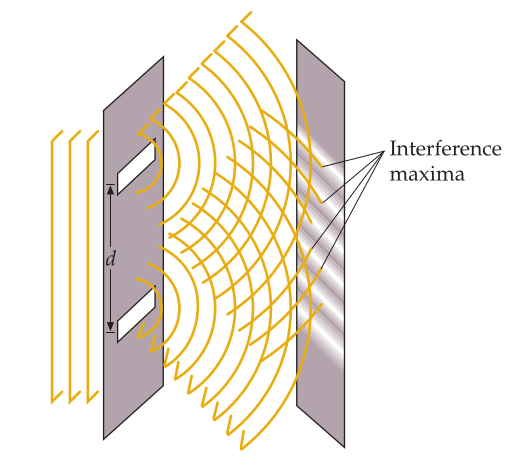
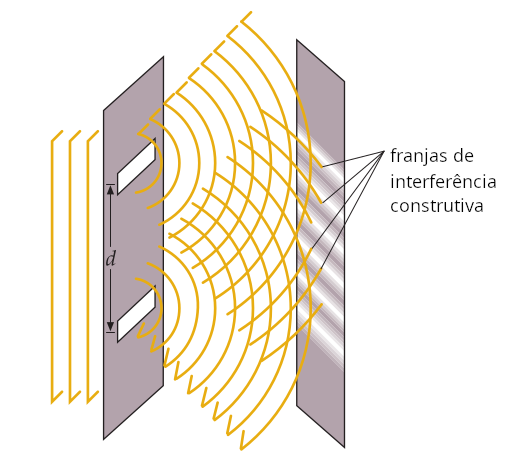
Atualizacao 13/05 00h

Changed region(s): [[0.7218, 0.3037, 0.9624, 0.4555]]

diff --git a/interferenciaedifracao.md b/interferenciaedifracao.md
@@ -127,7 +127,7 @@ y(x,t) = y_1(x,t) + y_2(x,t) \;=\;0\;,\;\;\; \forall x,t.
 \end{equation} 
 Essa é uma característica marcante dos fenômenos ondulatórios: a superposição
 de duas ondas pode resultar na ausência de ondas! Assim, a superposição de dois sons pode resultar em silêncio e a superposição de
-duas luzes pode resultar em escuridão! Esse fenômeno é denominado {\bf interferência destrutiva} e dizemos que as ondas estão em **oposição de fase**.
+duas luzes pode resultar em escuridão! Esse fenômeno é denominado **interferência destrutiva** e dizemos que as ondas estão em **oposição de fase**.
 
 O caso em que $\delta = \pi$ dá origem a uma interferência destrutiva total. O mesmo se dá quando $\delta = -\pi, \pm 3\pi, \pm 5\pi$, etc, pois em todos esses casos $\cos(\delta/2)$ se anula. 
 :::{note}
@@ -161,7 +161,7 @@ Perceba as ondas planas chegando e as ondas esféricas interferindo, gerando um 
 
 Pela distância da fonte, a onda atige o anteparo com frentes de onda praticamente planas. Pelo Princípio de Huygens, cada fenda fará com que o comportamento da onda seja equivalente à sobreposição (interferência) de muitas fontes pontuais diminutas, distribuidas ao longo da fenda. Como a frente de onda que atinge as fendas é tipo onda plana, todas as fontes diminutas nas duas fendas estarão em fase. A diferença de fase que se observará na sequência será devida à diferença de caminho.
 
-Vamos considerar o efeito da interferência de duas fontes diminutas localizadas em um mesmo perpendicular às fendas. Qual será a fase da onda em um ponto de altura $y$ (em relação à altura do ponto médio entre as fendas)? Pela figura, vemos que a diferença de caminho é $d\sin\theta$, com $\tan \theta = y/L$. 
+Vamos considerar o efeito da interferência de duas fontes diminutas localizadas em um mesmo plano perpendicular às fendas. Qual será a fase da onda em um ponto de altura $y$ (em relação à altura do ponto médio entre as fendas)? Pela figura, vemos que a diferença de caminho é $d\sin\theta$, com $\tan \theta = y/L$. 
 :::{figure} ./figures/interferenciaduplafendayoung2.png
 ---
 width: 600px
@@ -228,13 +228,15 @@ Agora, observe que $n_0\overline{AC'} = n_0\,L\sin \theta_1$ e $n\overline{A'C} 
 ([2]-[1])_{reflexão}\;=\;2 n d \cos\theta_2 \;-\;\frac{\lambda_0}{2}. 
 \end{equation}
 
-Por simetria, podemos escrever diretamente a diferença de caminho para dois raios transmitidos consecutivos:
+Por simetria, podemos escrever diretamente a diferença de caminho entre os raios transmitidos $2'$ e $1'$:
 \begin{equation}
-([2]-[1])_{transmissão}\;=\;2 n d \cos\theta_2\,. 
+([2']-[1'])_{transmissão}\;=\;2 n d \cos\theta_2\,. 
 \end{equation}
 Como não reflexão do ar para o meio mais refringente, não tem a diferença de fase adicional de meio comprimento de onda.
 
-Portanto, obtemos:
+Observe que os raios refletidos $3,4,\ldots$ têm o mesmo caminho óptico do raio $2$. A inteferência construtiva de $2,3,4,\ldots$ interfere com o raio $1$, que tem mais intensidade. Argumentos análogos valem para a análise dos raios transmitidos. O cálculo completo, que leva em conta a refletividade e a transmissividade pode ser feito.
+
+Finalmente, observam-se as seguintes condições:
 \begin{equation*}
 2 n d \cos\theta_2 = m\,\lambda_0\;\;\;\;(m=0, 1, 2, \ldots)\;\;\Rightarrow \begin{cases}\hbox{Mínimo de reflexão}\\\hbox{Máximo de transmissão}\end{cases} 
 \end{equation*}
@@ -274,5 +276,12 @@ name: interferencialaminasdelgadasborboleta
 As asas de algumas borboletas têm várias camadas de lâminas que dão a coloração das asas.
 :::
 
-### Interferômetros
+### O princípio dos interferômetros
 
+Na seção anterior, para um dado comprimento de onda, estudamos as espessuras de lâminas que correspondiam a interferência construtiva ou destrutiva. Podemos usar as relações obtidas para, a partir de uma lâmina com espessura $d$ conhecida, medir comprimentos de onda ou diferenças de caminho óptico.
+
+A capacidade de um interferômetro em diferenciar dois comprimentos de onda próximos depende da nítida separação entre duas franjas de interferência consecutivas. Usando interferômetros foi possível caracterizar a estrutura fina e hiperfina do espectro dos elementos químicos.  
+
+### Coerência da radiação
+
+## Padrão de difração por uma fenda